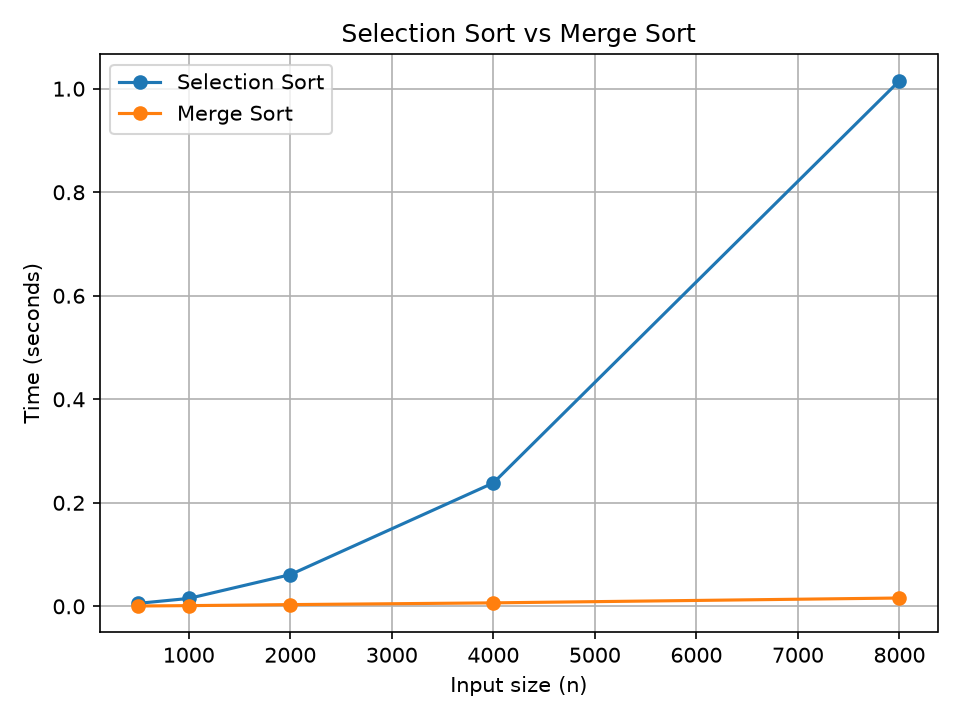
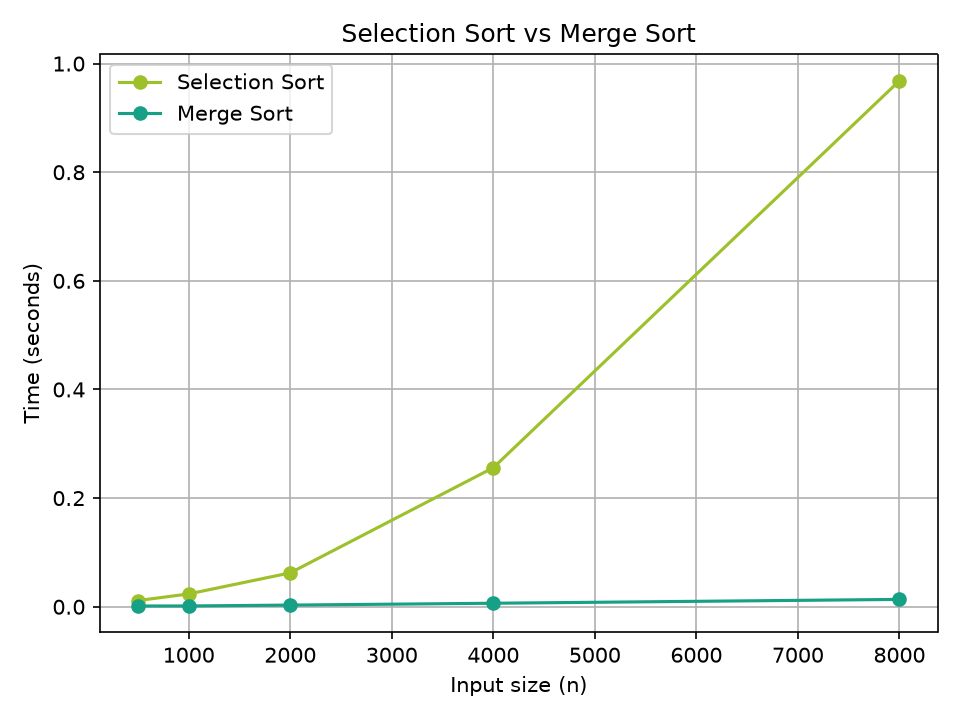
readme updated

diff --git a/Results_plot.py b/Results_plot.py
@@ -14,8 +14,8 @@ def load_results(filename: str = "bench_mark_output.csv") -> list[dict]:
 def plot_comparison(rows: list[dict], output: str = "sorting_comparison.png") -> None:
     sizes = [r["n"] for r in rows]
 
-    plt.plot(sizes, [r["selection_sort"] for r in rows], marker="o", label="Selection Sort")
-    plt.plot(sizes, [r["merge_sort"] for r in rows], marker="o", label="Merge Sort")
+    plt.plot(sizes, [r["selection_sort"] for r in rows], marker="o", color="#9DC02B", label="Selection Sort")
+    plt.plot(sizes, [r["merge_sort"] for r in rows], marker="o", color="#16A085", label="Merge Sort")
 
     plt.xlabel("Input size (n)")
     plt.ylabel("Time (seconds)")
